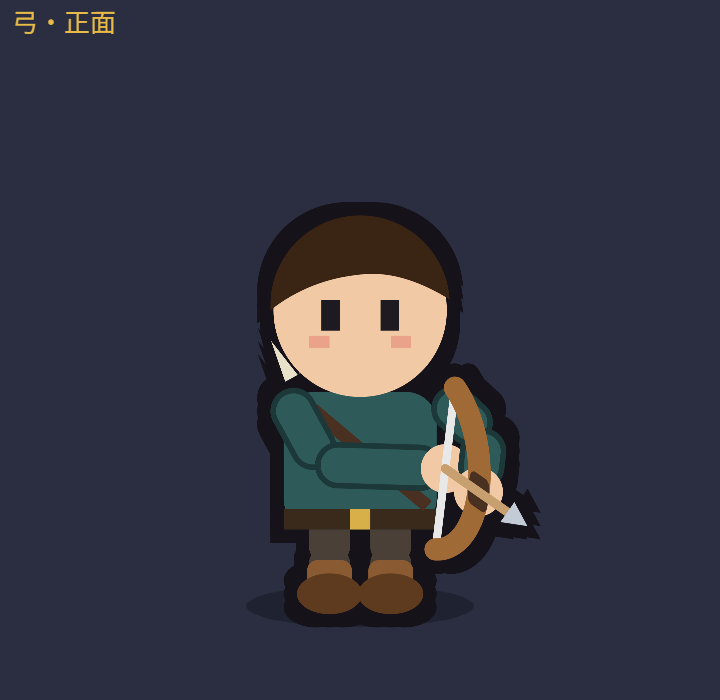
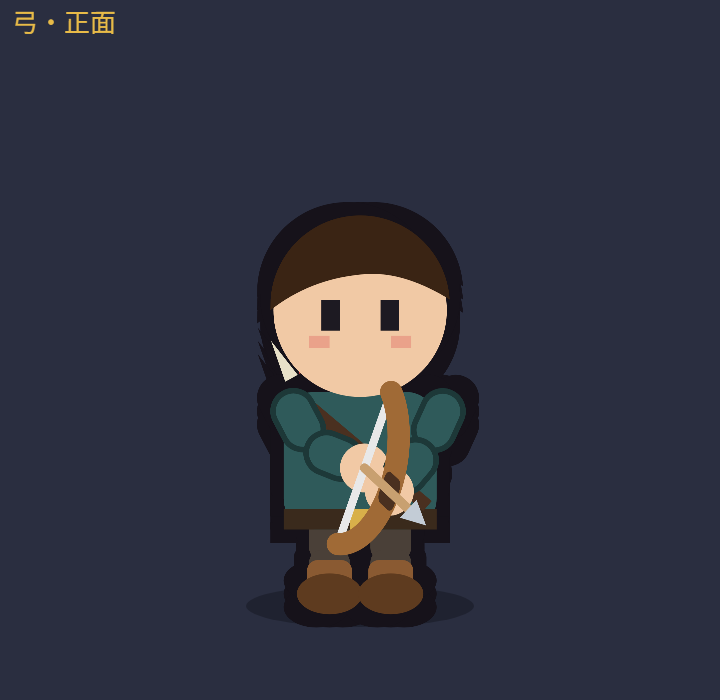
art(q): v9 front bow exception — normal arm length, bow moved in front of belly

Changed region(s): [[0.3972, 0.51, 0.7639, 0.84]]

diff --git a/docs/art/sample/qDoll.js b/docs/art/sample/qDoll.js
@@ -611,7 +611,7 @@ window.QDoll = (() => {
       // 第 9 版（美術 PM 定的持弓待機，四面同一個姿勢）：弓在角色左側、身體輪廓外面；左手握弓把在左腰外側、往前下方伸；弓直立、弓背朝前下，箭搭在弦上；
       //   右手橫過身前，手指扣在弦上的箭尾，也在左腰外側（使用者：「弓正面反面也要雙手拿吧」）。
       //   正面、背面的弓是斜看的：U＝弓臂方向、F＝箭的方向投影到畫面（往前下＝畫面往下、稍往外）；rsx、rlen＝右手的肩膀位置與手臂長度（要橫過整個腹前）
-      front: { wh: "off", hand: [11.6, -11.2], U: [-0.12, 1], F: [0.6, 0.42], rsx: -7, rlen: [7, 12] },
+      front: { wh: "off", hand: [1.6, -9.3], U: [-0.33, 0.94], F: [0.45, 0.42], rsx: -7 },  /* 第 9 版（美術 PM 回覆）：正面右手臂維持原長，弓、弦、左手往身體挪近，右手伸到搆得到的地方扣箭尾；正面這格不必在身體輪廓外面（例外） */
       back: { wh: "off", hand: [-13.4, -10.5], U: [0.12, 1], F: [-0.35, 0.42], rsx: 7, rlen: [7.5, 13.5], llen: [5.4, 5.6] },  // 背面：右手臂在身體前面被擋住，只露出左腰外的手和前臂
       side: { hand: [12.4, -12.4], a: Math.PI / 2 + 0.22, farX: 4.6, hlen: [5.3, 5.8] },                // 側面：持弓手往前下方伸直，弓在身側前方（左肩轉到前面一點）；右手在身前扣著弦上的箭尾
       aim: { hand: [14.2, -18.9], a: Math.PI / 2, farX: 4.6 } },                      // 拉弓：持弓手往前伸到肩高（左肩轉到前面）；右手手肘往後抬到肩高，拉弦手在下巴下，箭在下巴高度、水平

diff --git a/docs/art/關鍵姿勢檢查紀錄.md b/docs/art/關鍵姿勢檢查紀錄.md
@@ -43,7 +43,7 @@
 
 | # | 項目 | 結果 | 看哪張特寫 | 我看到 |
 |---|---|---|---|---|
-| 1 | 弓四面同一個姿勢、兩手都拿著弓 | 已修 | `key/r05_bow_*`、`b1`～`b6`、`a11_bow`、`i12_bow_*` | 正面：弓在畫面右、身體輪廓外，弓臂直立、箭頭朝右下；左手在左腰外、握在弓把後面（弓把畫在手上）；右手臂從右肩往下再橫過胸口下方、腹部上緣，手在畫面右的弦上、箭尾處，手的一半壓在身體邊緣上。背面：弓在畫面左、身體輪廓外；左手在左腰外握弓把；右手在弓弦上、在最上面，手和身體之間露出一小段右前臂，其餘右手臂看不到；背上箭袋。朝東：弓和兩手在身前腰高，左手（遠側）往前下伸、握弓把，弓往前下伸出、箭頭朝前下；右手在身前扣著箭尾。朝西：左手（近側）握弓把、弓在最前面；右手（遠側）在弦上、露出沒被弓擋住的部分 |
+| 1 | 弓四面同一個姿勢、兩手都拿著弓 | 已修 | `key/r05_bow_*`、`b1`～`b6`、`a11_bow`、`i12_bow_*` | 正面（例外，美術 PM 回覆後重畫）：手臂維持原長，弓、弦、左手往身體挪近：弓在腹前偏畫面右、稍往右傾，上弓梢在下巴下方、沒碰到下巴，下弓梢在腿前；左手在腹前偏右、握在弓把後面（弓把畫在手上）；右手臂從右肩往下、前臂往畫面右斜過腹前，手在腹部正中的弦上、扣著箭尾；箭頭朝右下。兩隻手都在身體輪廓裡面，兩隻都連著描邊的袖子。背面：弓在畫面左、身體輪廓外；左手在左腰外握弓把；右手在弓弦上、在最上面，手和身體之間露出一小段右前臂，其餘右手臂看不到；背上箭袋。朝東：弓和兩手在身前腰高，左手（遠側）往前下伸、握弓把，弓往前下伸出、箭頭朝前下；右手在身前扣著箭尾。朝西：左手（近側）握弓把、弓在最前面；右手（遠側）在弦上、露出沒被弓擋住的部分 |
 | 2 | 弓的側面像真人持弓待機 | 已修 | `key/r05_bow_east`、`b1`～`b6` | 持弓手往前下方伸直；弓在身體前緣之外，下弓梢剛好在身體前緣；右手臂有描邊、從肩膀連到手，手畫在弦的上面。拉滿（`b5`）：右手肘往後抬到肩高，整隻右手臂在下巴下方、看得到手肘，手在下巴下；袖子沒蓋到嘴 |
 | 3 | 背面持盾的左手 | 已修 | `key/r09_sword-shield_back`、`parts/s11_01`～`s11_04` 背面 | 左上臂從肩膀（肩甲）垂下，前臂往畫面左橫過盾背，前臂上套一條直的深色臂帶，手在靠盾緣處，握把從拳頭上穿過；從肩膀到手連著。藍披風那格（`style-compare-3` 第 5 節）披風在最上層 |
 | 4 | 拳套朝西 | 已修 | `parts/s06_04` | 朝西：近側左手戴拳套在身前，遠側右手戴拳套在身體後緣露出一半，軀幹後緣有手臂的圓弧，不再是平的；和朝東一致 |
@@ -182,7 +182,7 @@
 
 ## 五、沒改、或要說清楚的地方
 
-- 正面弓手的右手臂是橫過胸口下方、腹部上緣，不是更低的斜線：Q 版手臂只有 10.5 單位，要從右肩搆到左腰外的弦，手臂已經拉長到約 1.8 倍（只在這一格）。
+- **正面弓手的例外**（美術 PM 回覆：不接受手臂拉長 1.8 倍）：Q 版手臂只有 10.5 單位，維持原長時右手最遠只搆到腹部正中，所以正面這格的弓、弦、兩隻手都在身體輪廓裡面（腹前），不在左腰外；背面、朝東、朝西照原規則。美術 PM 會把這個例外寫進清單。
 - 背面弓手的右前臂只露出手和身體之間的一小段。
 - 袖子描邊只加在側面、關鍵姿勢、背面持盾；正面、背面的站姿（手垂在身體外側）沒加，和已定案的樣子一樣。
 - 扛肩朝東時劍身從下巴下面經過，所以位置比「肩膀頂端」低，在肩頸與上胸之間；要真的放在肩頂就一定會蓋到臉（Q 版頭比肩寬）。
@@ -190,4 +190,4 @@
 ## 六、要美術 PM 決定
 
 1. 雙手劍正面用拄劍還是扛肩（沿用第 8 版，交給使用者）。
-2. 正面弓手右手臂拉長到約 1.8 倍是否可以接受；不行的話，另一個做法是右手只到身體邊緣（違反「身體輪廓外面」）。
+2. （已回覆）正面弓手不拉長手臂，改成上面的例外；扛肩朝東劍身經過肩頸和上胸之間，美術 PM 已接受。

diff --git a/docs/art/部件四方向清單.md b/docs/art/部件四方向清單.md
@@ -97,7 +97,7 @@
 | 空手 | 兩手垂在身側 | 兩手垂在身側、看得到 | 近側手在身側，遠側手在身後露一點 | 同朝東 |
 | 單手武器（右手） | 在畫面左、身側；握把畫在手上面 | 在畫面右、身側；手看得到，武器和身體、肩膀重疊的部分被擋住，只露出身體輪廓外面的刃（第 9 版） | 右手在近側，武器在身前、畫在手上面 | 右手在遠側；手在身旁時武器被身體擋住一部分，手伸到身體前方時畫在身體前面 |
 | 成對武器 | 一手一把（畫面左、右） | 一手一把，都在身側 | 右手那把在近側、腰側；左手那把舉在胸前（遠側、在身體前方），兩隻手分開 | 手性互換 |
-| 弓（第 9 版：四面同一個持弓待機） | 弓在畫面右、身體輪廓外面（斜看：弓臂直立、箭往外下）；左手在左腰外握弓把；右手臂從右肩斜過腹前，手指扣在弦上的箭尾；弓在最前面，弦和右手在弓後面 | 弓在畫面左、身體輪廓外面；左手在左腰外握弓把；右手臂在身體前面被擋住，只露出左腰外的前臂和手，右手在弦上、在最上面；背上箭袋 | 左側在遠側：左手往前下方伸直、握弓把，弓在身側前方、箭頭朝前下；右手在身前扣著箭尾，右手臂畫在弓上面（手壓在弦上）；拉弓時右手手肘往後抬到肩高、在下巴下方看得到；箭袋貼著背 | 左側在近側：左手握弓把、弓在最前面；右手在遠側、在弦上，只露出沒被擋住的部分 |
+| 弓（第 9 版：四面同一個持弓待機） | 例外：手臂維持原長，弓在腹前偏畫面右（斜看：弓臂稍往右傾、箭往右下），左手在腹前偏右握弓把；右手臂從右肩斜過腹前，手在腹部正中扣著弦上的箭尾；弓在最前面，弦和右手在弓後面 | 弓在畫面左、身體輪廓外面；左手在左腰外握弓把；右手臂在身體前面被擋住，只露出左腰外的前臂和手，右手在弦上、在最上面；背上箭袋 | 左側在遠側：左手往前下方伸直、握弓把，弓在身側前方、箭頭朝前下；右手在身前扣著箭尾，右手臂畫在弓上面（手壓在弦上）；拉弓時右手手肘往後抬到肩高、在下巴下方看得到；箭袋貼著背 | 左側在近側：左手握弓把、弓在最前面；右手在遠側、在弦上，只露出沒被擋住的部分 |
 | 盾（左手） | 在畫面右，有鋼邊 | 盾背（木板）在畫面左、在身體後面；左上臂從肩膀垂下，前臂往外橫過盾背，前臂上套一條直的臂帶，手握住靠盾緣的握把（握把畫在拳頭上面）；整隻手臂從肩膀連到手（「拿在身前連手一起擋住」的例外）；有披風時披風在最上層 | 左手在遠側、在盾後面（被盾擋住），盾舉在胸前；不另外畫一隻垂著的左手 | 左手在近側、在盾後面，盾在前面 |
 | 書（左手） | 在畫面右 | 大部分被身體擋住，只露一角 | 在遠側手、身體後面露一點 | 在近側手、最後畫，蓋在遠側手的杖上面；遠側握杖的手在書的上方、看得到（第 9 版） |
 | 法杖（右手） | 在畫面左、身側；杖畫在手上面 | 在畫面右、身側，手看得到，杖畫在手上面 | 杖稍往前傾（第 8 版少傾一點，杖頭不伸進隔壁格） | 同朝東，杖在遠側手 |
